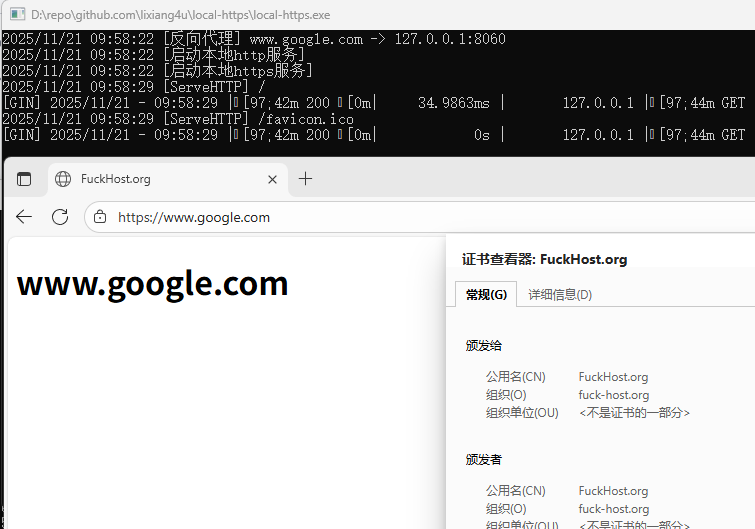
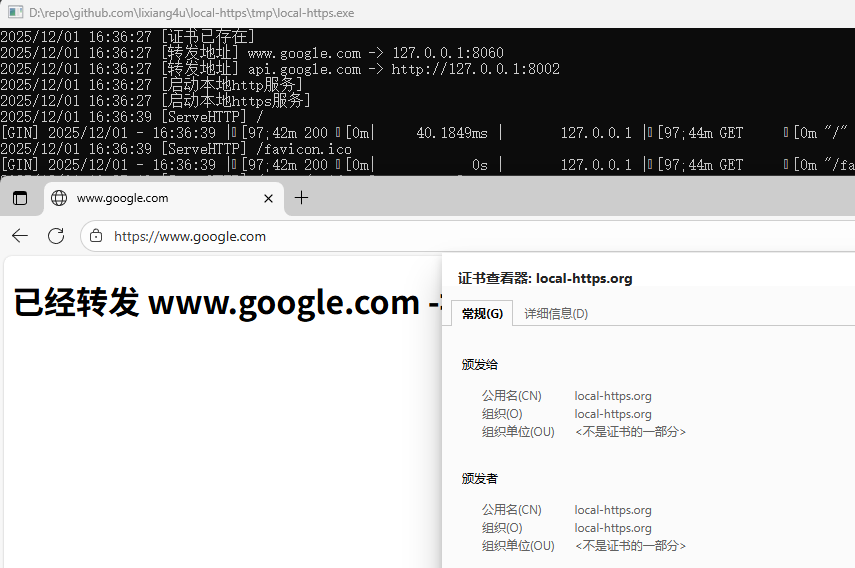
修改截图

Changed region(s): [[0.0, 0.0, 1.0, 1.0], [0.4874, 0.1815, 0.6397, 0.242]]

diff --git a/README.md b/README.md
@@ -13,12 +13,12 @@
 }
 ```
 
-2、本地启动`www.google.com`域名服务，转发到`http://192.168.1.2:8090`服务
+2、本地启动`www.google.com`域名服务，转发到`http://192.168.1.2:8060`服务
 ```
 {
   "cert_name": "local-https.org",
   "proxy": {
-    "www.google.com": "http://192.168.1.2:8090"
+    "www.google.com": "http://192.168.1.2:8060"
   }
 }
 ```
